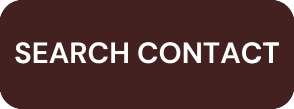
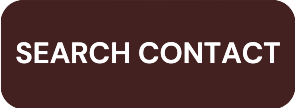
fix the edit data

diff --git a/edit_file.py b/edit_file.py
@@ -1,6 +1,7 @@
 
 import tkinter as tk
 from tkinter import scrolledtext
+from tkinter import messagebox
 import csv
 
 
@@ -16,16 +17,16 @@ class FileHandler():
         search_label.pack()
 
         self.search_entry = tk.Entry(search_window, font=("Arial", 12))
-        self.search_entry.pack()
+        self.search_entry.place(x=100, y=40)
         self.search_button(search_window)
 
     #Create a search button
     def search_button(self, search_window):
         search_button = tk.Button(search_window, text="Search", command=self.search_contact)
-        search_button.pack()
+        search_button.place(x=50, y=40)
 
         self.result_label = tk.Label(search_window, text="", font=("Arial", 12))
-        self.result_label.pack()
+        self.result_label.place(x=50, y=40)
     
     #Search the data
     def search_contact(self):
@@ -85,9 +86,13 @@ class FileHandler():
                                       f"Emergency Contact Phone Number: {emergency_number}\n"
                                       f"Emergency Contact Email Address: {emergency_email}\n\n")
             
+            # Add Edit button for each row
+            edit_button = tk.Button(result_window, text="Edit", command=lambda r=row: self.edit_data(r), font=("Time", 12, "bold") , fg="green")
+            edit_button.place(x=750, y=362)
+
             # Add Remove button for each row
-            remove_button = tk.Button(result_window, text="Remove", command=lambda r=row: self.remove_data(r))
-            remove_button.pack()
+            remove_button = tk.Button(result_window, text="Remove", command=lambda r=row: self.remove_data(r),  font=("Time", 12, "bold"), fg="red")
+            remove_button.place(x=20, y=362)
 
         # Disable editing in the scrolled text widget
         scroll_text.configure(state='disabled')
@@ -99,13 +104,146 @@ class FileHandler():
         with open("contact_list.csv", "r", newline="") as file:
             rows = [row for row in csv.reader(file)]
 
-        # Find the index of the data row in the CSV
         index_to_remove = rows.index(data_row)
 
-        # Remove the row from the data list
         del rows[index_to_remove]
 
-        # Write the updated data back to the CSV file
         with open("contact_list.csv", "w", newline="") as file:
             writer = csv.writer(file)
             writer.writerows(rows)
+
+    # Edit the specified data
+    def edit_data(self, data_row):
+        self.edit_window = tk.Toplevel()
+        self.edit_window.title("Edit Data - CoviCompanion")
+        self.edit_window.geometry("900x400")
+
+        first_name_var = tk.StringVar(self.edit_window, value=data_row[0])
+        second_name_var = tk.StringVar(self.edit_window, value=data_row[1])
+        last_name_var = tk.StringVar(self.edit_window, value=data_row[2])
+        age_var = tk.StringVar(self.edit_window, value=data_row[3])
+        sex_var = tk.StringVar(self.edit_window, value=data_row[4])
+        address_var = tk.StringVar(self.edit_window, value=data_row[5])
+        contact_number_var = tk.StringVar(self.edit_window, value=data_row[6])
+        email_var = tk.StringVar(self.edit_window, value=data_row[7])
+        visited_recently_var = tk.StringVar(self.edit_window, value=data_row[8])
+        date_of_visit_var = tk.StringVar(self.edit_window, value=data_row[9])
+        vaccine_status_var = tk.StringVar(self.edit_window, value=data_row[10])
+        test_result_var = tk.StringVar(self.edit_window, value=data_row[11])
+        close_contact_var = tk.StringVar(self.edit_window, value=data_row[12])
+        symptoms_var = tk.StringVar(self.edit_window, value=data_row[13])
+        emergency_name_var = tk.StringVar(self.edit_window, value=data_row[14])
+        emergency_number_var = tk.StringVar(self.edit_window, value=data_row[15])
+        emergency_email_var = tk.StringVar(self.edit_window, value=data_row[16])
+
+        tk.Label(self.edit_window, text="First Name:").grid(row=0, column=0, padx=5, pady=10)
+        first_name_entry = tk.Entry(self.edit_window, textvariable=first_name_var)
+        first_name_entry.grid(row=0, column=1)
+
+        tk.Label(self.edit_window, text="Second Name:").grid(row=1, column=0, padx=5, pady=10)
+        second_name_entry = tk.Entry(self.edit_window, textvariable=second_name_var)
+        second_name_entry.grid(row=1, column=1)
+
+        tk.Label(self.edit_window, text="Last Name:").grid(row=2, column=0, padx=5, pady=10)
+        last_name_entry = tk.Entry(self.edit_window, textvariable=last_name_var)
+        last_name_entry.grid(row=2, column=1)
+
+        tk.Label(self.edit_window, text="Age:").grid(row=3, column=0, padx=5, pady=10)
+        age_entry = tk.Entry(self.edit_window, textvariable=age_var)
+        age_entry.grid(row=3, column=1)
+
+        tk.Label(self.edit_window, text="Sex (male,female,intersex):").grid(row=4, column=0, padx=5, pady=10)
+        sex_entry = tk.Entry(self.edit_window, textvariable=sex_var)
+        sex_entry.grid(row=4, column=1)
+
+        tk.Label(self.edit_window, text="Address:").grid(row=5, column=0, padx=5, pady=10)
+        address_entry = tk.Entry(self.edit_window, textvariable=address_var)
+        address_entry.grid(row=5, column=1)
+
+        tk.Label(self.edit_window, text="Contact Number:").grid(row=6, column=0, padx=5, pady=10)
+        contact_number_entry = tk.Entry(self.edit_window, textvariable=contact_number_var)
+        contact_number_entry.grid(row=6, column=1)
+
+        tk.Label(self.edit_window, text="Email Address:").grid(row=7, column=0, padx=5, pady=10)
+        email_entry = tk.Entry(self.edit_window, textvariable=email_var)
+        email_entry.grid(row=7, column=1)
+
+        tk.Label(self.edit_window, text="Last Visited Place:").grid(row=8, column=0, padx=5, pady=10)
+        visited_recently_entry = tk.Entry(self.edit_window, textvariable=visited_recently_var)
+        visited_recently_entry.grid(row=8, column=1)
+
+        tk.Label(self.edit_window, text="Date of Visit:").grid(row=0, column=2, padx=5, pady=10)
+        date_of_visit_entry = tk.Entry(self.edit_window, textvariable=date_of_visit_var)
+        date_of_visit_entry.grid(row=0, column=3)
+
+        tk.Label(self.edit_window, text="COVID-19 Vaccination Status:").grid(row=1, column=2, padx=5, pady=10)
+        vaccine_status_entry = tk.Entry(self.edit_window, textvariable=vaccine_status_var)
+        vaccine_status_entry.grid(row=1, column=3)
+
+        tk.Label(self.edit_window, text="COVID-19 Test Result:").grid(row=2, column=2, padx=5, pady=10)
+        test_result_entry = tk.Entry(self.edit_window, textvariable=test_result_var)
+        test_result_entry.grid(row=2, column=3)
+
+        tk.Label(self.edit_window, text="Exposed to COVID-19 in the last 14 days?").grid(row=3, column=2, padx=5, pady=10)
+        close_contact_entry = tk.Entry(self.edit_window, textvariable=close_contact_var)
+        close_contact_entry.grid(row=3, column=3)
+
+        tk.Label(self.edit_window, text="Experiencing symptoms in the past 7 days?").grid(row=4, column=2, padx=5, pady=10)
+        symptoms_entry = tk.Entry(self.edit_window, textvariable=symptoms_var)
+        symptoms_entry.grid(row=4, column=3)
+
+        tk.Label(self.edit_window, text="Emergency Contact's Name:").grid(row=5, column=2, padx=5, pady=10)
+        emergency_name_entry = tk.Entry(self.edit_window, textvariable=emergency_name_var)
+        emergency_name_entry.grid(row=5, column=3)
+
+        tk.Label(self.edit_window, text="Emergency Contact Phone Number:").grid(row=6, column=2, padx=5, pady=10)
+        emergency_number_entry = tk.Entry(self.edit_window, textvariable=emergency_number_var)
+        emergency_number_entry.grid(row=6, column=3)
+
+        tk.Label(self.edit_window, text="Emergency Contact Email Address:").grid(row=7, column=2, padx=5, pady=10)
+        emergency_email_entry = tk.Entry(self.edit_window, textvariable=emergency_email_var)
+        emergency_email_entry.grid(row=7, column=3)
+
+        save_button = tk.Button(self.edit_window, text="Save", fg= "blue",  font=("Time", 12, "bold"), command=lambda: self.save_edited_data(
+            data_row,
+            first_name_var.get().lower(),
+            second_name_var.get().lower(),
+            last_name_var.get().lower(),
+            age_var.get().lower(),
+            sex_var.get().lower(),
+            address_var.get().lower(),
+            contact_number_var.get().lower(),
+            email_var.get().lower(),
+            visited_recently_var.get().lower(),
+            date_of_visit_var.get().lower(),
+            vaccine_status_var.get().lower(),
+            test_result_var.get().lower(),
+            close_contact_var.get().lower(),
+            symptoms_var.get().lower(),
+            emergency_name_var.get().lower(),
+            emergency_number_var.get().lower(),
+            emergency_email_var.get().lower()
+        ))
+        save_button.place(x=800, y=350)
+
+    def save_edited_data(self, old_data, new_first_name, new_second_name, new_last_name, new_age, new_sex, new_address,
+                     new_contact_number, new_email, new_visited_recently, new_date_of_visit, new_vaccine_status,
+                     new_test_result, new_close_contact, new_symptoms, new_emergency_name, new_emergency_number,
+                     new_emergency_email):
+        with open("contact_list.csv", "r", newline="") as file:
+            rows = [row for row in csv.reader(file)]
+
+        index_to_edit = rows.index(old_data)
+
+        rows[index_to_edit] = [new_first_name, new_second_name, new_last_name, new_age, new_sex, new_address,
+                           new_contact_number, new_email, new_visited_recently, new_date_of_visit, new_vaccine_status,
+                           new_test_result, new_close_contact, new_symptoms, new_emergency_name, new_emergency_number,
+                           new_emergency_email]
+
+        with open("contact_list.csv", "w", newline="") as file:
+            writer = csv.writer(file)
+            writer.writerows(rows)
+
+        # Close the edit window after saving
+        messagebox.showinfo("Success", "Data edited successfully.")
+        self.edit_window.destroy()

diff --git a/user_interface.py b/user_interface.py
@@ -58,7 +58,7 @@ class UserInterface:
     def contact_form(self, main_window):
         tracing_form = TracingForm()
         contact_image = Image.open("contact_form.png")
-        resize_image = contact_image.resize((90, 30), Image.ANTIALIAS)
+        resize_image = contact_image.resize((110, 50), Image.ANTIALIAS)
 
         contact_image_button = ImageTk.PhotoImage(resize_image)
         contact_button = tk.Button(main_window, image=contact_image_button, command=lambda: tracing_form.user_information(), borderwidth=1 )
@@ -67,5 +67,10 @@ class UserInterface:
 
     def search_data(self, main_window):
         file_handler = FileHandler()
-        finder_button = tk.Button(main_window, text="Search Contact", fg="blue", command=lambda: file_handler.search_window(), font=("Times New Roman", 14) )
-        finder_button.place(x=80, y=180)
+        search_image = Image.open("search_contact.png")
+        resize_image = search_image.resize((110, 50), Image.ANTIALIAS)
+
+        search_image_button = ImageTk.PhotoImage(resize_image)
+        finder_button = tk.Button(main_window, image=search_image_button, command=lambda: file_handler.search_window(), borderwidth=0)
+        finder_button.image = search_image_button
+        finder_button.place(x=80, y=230)

diff --git a/tracing_form.py b/tracing_form.py
@@ -154,7 +154,7 @@ class TracingForm():
         self.symptoms_label.grid(row=11, column=1, padx=5, pady=10)
 
         self.symptoms_box = ttk.Combobox(self.user_information_window, values=["No", "Yes"])
-        self.close_contact_box.grid(row=11, column=2, padx=5, pady=10)
+        self.symptoms_box.grid(row=11, column=2, padx=5, pady=10)
     #Get name of emergency contact
     
         self.emergency_name_label = tk.Label(self.user_information_window, text="Emergency Contact's Name: ", font=("Arial", 9, "bold"), bg="#ECDADD")
